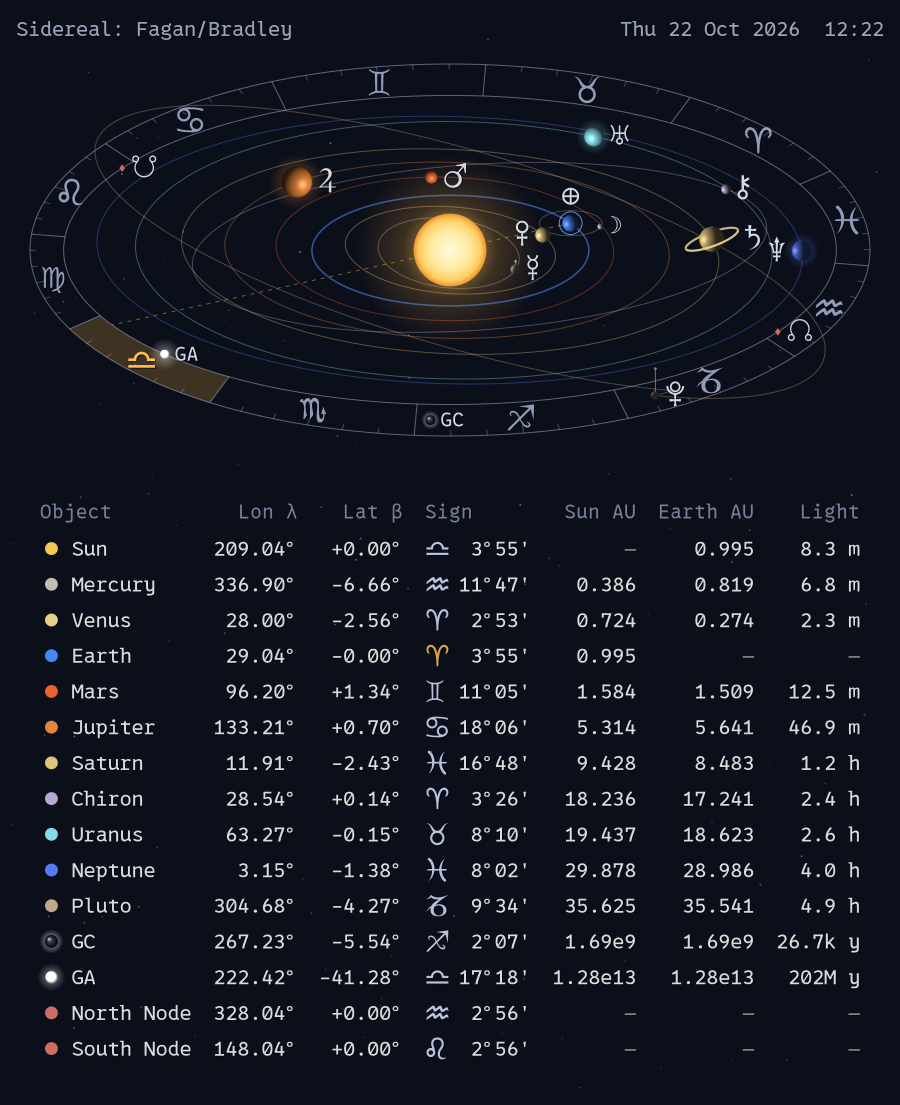
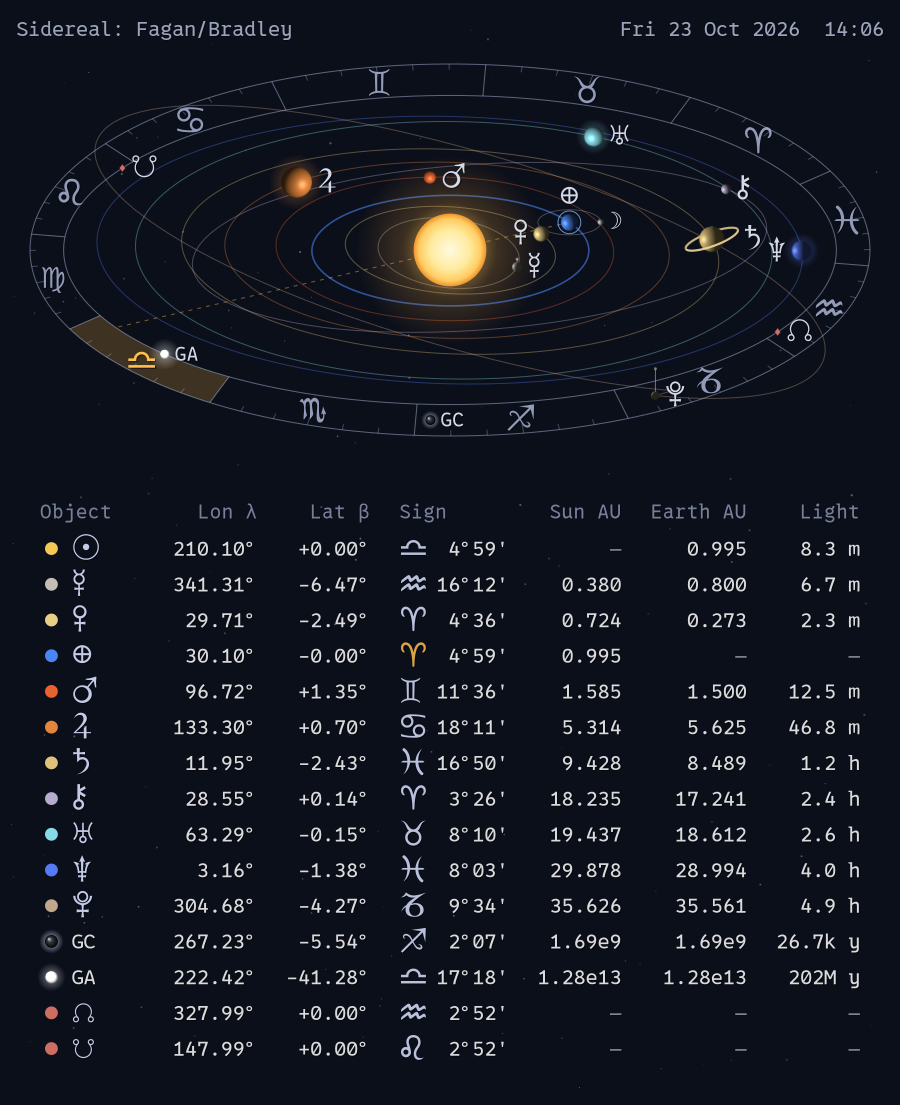
Orrery 1.7.0: symbols in the table's Object column
The Sun, planets, Chiron and the Moon's nodes are shown by their symbols
(GC and GA keep their names); table symbols are a little larger, the nodes
a little smaller. New preview.

diff --git a/orrery/render.py b/orrery/render.py
@@ -85,6 +85,10 @@ SYMBOLS = {"Moon": "moon", "Mercury": "mercury", "Venus": "venus", "Earth": "ear
            "Mars": "mars", "Jupiter": "jupiter", "Saturn": "saturn", "Chiron": "chiron",
            "Uranus": "uranus", "Neptune": "neptune", "Pluto": "pluto",
            "North Node": "north-node", "South Node": "south-node"}
+# Table Object column: the same symbols plus the Sun; GC and GA keep their names.
+TABLE_SYMBOLS = dict(SYMBOLS, Sun="sun")
+TABLE_SYM_PX = 18                    # symbol size in the table (text is 14)
+TABLE_SYM_K = {"north-node": 0.82, "south-node": 0.82}   # the nodes look big
 
 # The Moon's nodes (true node, geocentric) are marked on the inner edge of the
 # zodiac band at their longitude, like the galactic center.
@@ -712,8 +716,11 @@ def main():
 
     def cell_width(c, i, size):
         if i == 3:                                   # glyph + gap + degrees
-            return (max(symbol(cr, key, 0, 0, (size + 1) * k, None, 0, measure=True)
+            return (max(symbol(cr, key, 0, 0, (TABLE_SYM_PX - 1) * k, None, 0, measure=True)
                         for key in SIGN_KEYS.values()) + 6 * k + width(c[1:], size, MONO))
+        if i == 0 and c in TABLE_SYMBOLS:
+            key = TABLE_SYMBOLS[c]
+            return symbol(cr, key, 0, 0, TABLE_SYM_PX * TABLE_SYM_K.get(key, 1) * k, None, 0, measure=True)
         return width(c, size, MONO)
 
     def measure():
@@ -755,12 +762,16 @@ def main():
             cr.set_source_rgba(*col, 0.95)
             cr.arc(x0 + 8 * k, rowy - 5 * k, 4.5 * k, 0, 2 * math.pi)
             cr.fill()
-        text(cr, cells[0], x0 + dot, rowy, 14, font=MONO, k=k)
+        if name in TABLE_SYMBOLS:
+            key = TABLE_SYMBOLS[name]
+            symbol(cr, key, x0 + dot, rowy, TABLE_SYM_PX * TABLE_SYM_K.get(key, 1) * k, pale, 0.9)
+        else:
+            text(cr, cells[0], x0 + dot, rowy, 14, font=MONO, k=k)
         for i in (1, 2, 4, 5, 6):
             dim = cells[i] == "—"
             text(cr, cells[i], xs[i][1], rowy, 14, font=MONO, align="r", alpha=0.5 if dim else 0.85, k=k)
         sx0, sx1 = xs[3]
-        symbol(cr, SIGN_KEYS[cells[3][0]], sx0, rowy, 15 * k, gold if name == "Earth" else pale, 0.85)
+        symbol(cr, SIGN_KEYS[cells[3][0]], sx0, rowy, (TABLE_SYM_PX - 1) * k, gold if name == "Earth" else pale, 0.85)
         text(cr, cells[3][1:], sx1, rowy, 14, font=MONO, align="r", k=k)
         rowy += 25 * k
 

diff --git a/orrery/README.md b/orrery/README.md
@@ -50,7 +50,7 @@ in the body's colour.
 
 | Column   | Meaning |
 |----------|---------|
-| Object   | name |
+| Object   | the body's astrological symbol; GC and GA by name |
 | Lon λ    | ecliptic longitude: heliocentric for the planets (tropical, of date); for the Sun, the nodes, GC and GA, as seen from Earth |
 | Lat β    | ecliptic latitude (0° for the nodes) |
 | Sign     | sign and degree of that longitude, tropical or sidereal (see *Zodiac*); Earth's sign is in gold |
